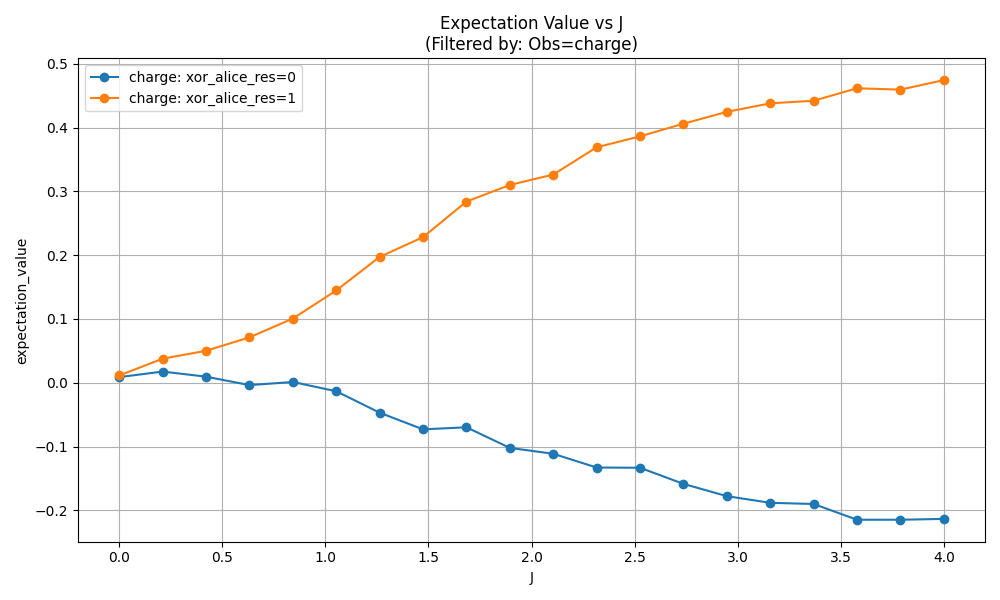
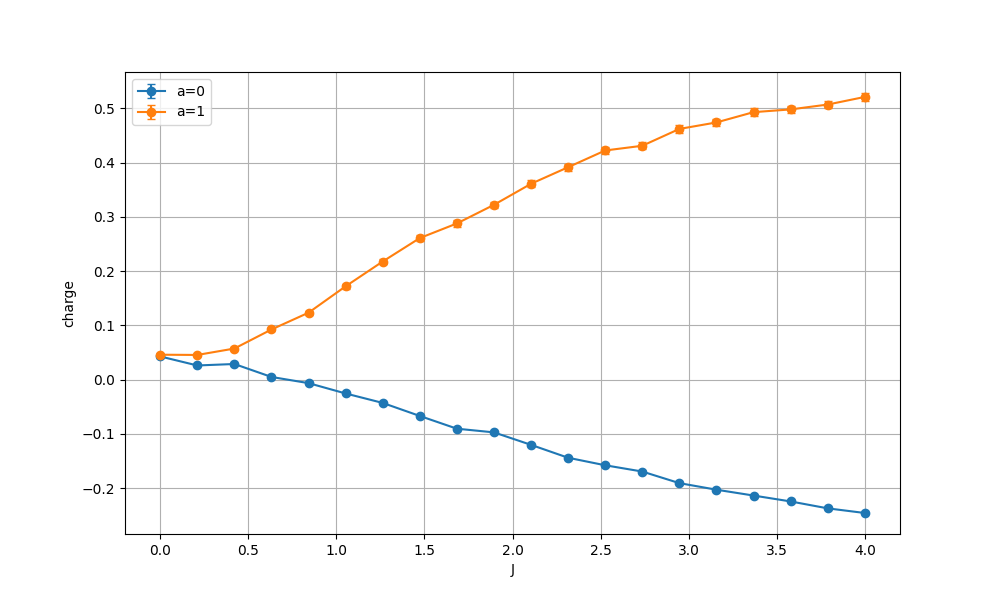
Update paper from yaron (#59)
* Update real quantum HW results after re-running the protocol and update discussion accordingly

* Re-arrangement and updates of errors section after real HW results update

* Update changes from yaron - introduction still needs to be verified

diff --git a/latex/6 - noise and errors.tex b/latex/6 - noise and errors.tex
@@ -8,10 +8,6 @@ A primary metric for protocol failure is the sign reversal of the teleported exp
 \subsection{Classical Communication Error}
 \label{subsec:classical-comm}
 
-An error in the classical channel, where the bit Alice sends is flipped with probability $p$, causes Bob to apply the incorrect unitary operation. This effectively creates a statistical mixture of the intended ($a=0$) and flipped ($a=1$) outcomes. As analyzed in \cite{QKDbyQET}, this leads to a linear degradation of the expected signal: $\langle\Delta O_B\rangle_p = (1-p)\langle\Delta O_B\rangle_{a=0} + p\langle\Delta O_B\rangle_{a=1}$. Since $\langle\Delta O_B\rangle_{a=0}$ is negative and $\langle\Delta O_B\rangle_{a=1}$ is positive, the signal is attenuated and moves towards zero.
-
-The numerical results in Figure~\ref{fig:cls-Ns-main} show this linear decay for all simulated configurations. For the star-interaction model $H^{(1)}$, a clear sign-flip threshold appears around $p \approx 0.25$, consistent with the findings in \cite{QKDbyQET}. While the absolute magnitude of the energy signal is larger than that of the charge signal in this model, both are similarly vulnerable to this error (see Appendix Fig.~\ref{fig:classical_err_alice_ham} and Fig.~\ref{fig:classical_err_nn_ham_x} for a direct comparison). However, for the more realistic nearest-neighbor model ($H^{(2)}$), the energy signal diminishes rapidly with system size $N$, whereas the charge signal remains more stable (a trend clearly visible in the energy data in Appendix Fig.~\ref{fig:energy_vs_classical_err_for_n}). This highlights that for larger distances, the charge protocol's signal is more resilient, even though the fundamental error threshold remains similar.
-
 \begin{figure}[ht]
   \centering
   \subfloat[\(H^{(1)}\) (Star-Coupling interaction)]{
@@ -29,6 +25,10 @@ The numerical results in Figure~\ref{fig:cls-Ns-main} show this linear decay for
   \label{fig:cls-Ns-main}
 \end{figure}
 
+An error in the classical channel, where the bit Alice sends is flipped with probability $p$, causes Bob to apply the incorrect unitary operation. This effectively creates a statistical mixture of the intended ($a=0$) and flipped ($a=1$) outcomes. As analyzed in \cite{QKDbyQET}, this leads to a linear degradation of the expected signal: $\langle\Delta O_B\rangle_p = (1-p)\langle\Delta O_B\rangle_{a=0} + p\langle\Delta O_B\rangle_{a=1}$. Since $\langle\Delta O_B\rangle_{a=0}$ is negative and $\langle\Delta O_B\rangle_{a=1}$ is positive, the signal is attenuated and moves towards zero.
+
+The numerical results in Figure~\ref{fig:cls-Ns-main} show this linear decay for all simulated configurations. For the star-interaction model $H^{(1)}$, a clear sign-flip threshold appears around $p \approx 0.25$, consistent with the findings in \cite{QKDbyQET}. While the absolute magnitude of the energy signal is larger than that of the charge signal in this model, both are similarly vulnerable to this error (see Appendix Fig.~\ref{fig:classical_err_alice_ham} and Fig.~\ref{fig:classical_err_nn_ham_x} for a direct comparison). However, for the more realistic nearest-neighbor model ($H^{(2)}$), the energy signal diminishes rapidly with system size $N$, whereas the charge signal remains more stable (a trend clearly visible in the energy data in Appendix Fig.~\ref{fig:energy_vs_classical_err_for_n}). This highlights that for larger distances, the charge protocol's signal is more resilient, even though the fundamental error threshold remains similar.
+
 From Figure~\ref{fig:classical-main} one can see that error flipping the classical bit communicated from Alice to Bob changes the extracted value sign at Bob's site at high probabilities. This is the expected result since by the protocol's design and from simulations of the protocol in previous sections we showed that flipping this bit inverts the sign measured by Bob. Comparing to energy from the equivalence simulation in~\cite{QKDbyQET} (see also Figures~\ref{fig:classical_err_alice_ham},~\ref{fig:classical_err_nn_ham_x} and~\ref{fig:classical_err_nn_ham_y} in Appendix), the charge is somewhat more robust to such error where the sign flips around \(p_{err} \approx  0.32\) instead of \(p_{err} \approx  0.25\) for energy, a threshold introduce in~\cite{QKDbyQET} and is confirmed in our own energy teleportation simulations (Appendix Fig.~\ref{fig:classical_err_alice_ham}, Fig.~\ref{fig:classical_err_nn_ham_x} and Fig.~\ref{fig:classical_err_nn_ham_y}).
 
 \begin{figure}[ht]
@@ -41,11 +41,6 @@ not prominent at low error probabilities.}
 
 \subsection{Mixture with an Excited State}
 \label{subsec:mixture}
-
-Perfect ground state preparation is experimentally challenging; a common imperfection is a residual population of excited states, modeled as a classical mixture $\rho = (1-p)\rho_{gs} + p\rho_{excited}$. The teleported signal becomes a weighted average of the contributions from each state.
-
-Figure~\ref{fig:mixture-main} reveals a critical performance difference between energy and charge teleportation.
-This difference in robustness stems from the nature of the observables themselves. The energy teleportation signal is highly sensitive to the local energy expectation value $\langle H_B\rangle$. Low-lying excitations contribute a large positive energy offset, which can easily overwhelm the negative teleported signal originating from the ground state component, causing a premature sign-flip fatal to the QKD protocol.
 
 \begin{figure}[ht!]
     \centering
@@ -61,6 +56,26 @@ This difference in robustness stems from the nature of the observables themselve
   \label{fig:mixture-main}
 \end{figure}
 
+Perfect ground state preparation is experimentally challenging; a common imperfection is a residual population of excited states, modeled as a classical mixture $\rho = (1-p)\rho_{gs} + p\rho_{excited}$. The teleported signal becomes a weighted average of the contributions from each state.
+
+Figure~\ref{fig:mixture-main} reveals a critical performance difference between energy and charge teleportation.
+This difference in robustness stems from the nature of the observables themselves. The energy teleportation signal is highly sensitive to the local energy expectation value $\langle H_B\rangle$. Low-lying excitations contribute a large positive energy offset, which can easily overwhelm the negative teleported signal originating from the ground state component, causing a premature sign-flip fatal to the QKD protocol.
+
+% This is part of the next subsection of superposition with excited state error, it is here for formatting resons
+\begin{figure*}[htbp]
+    \centering
+    \subfloat[Numerical, \(H^{(2)}\), \(N{=}2\), \(\sigma_A=X_0\)]{
+        \includegraphics[width=0.8\columnwidth]{plots/errors/numerical/N2_charge_vs_p_excited_superposition_error.png}
+    }
+    \hfill
+    \subfloat[Qiskit, \(H^{(2)}\), \(N{=}2\), \(\sigma_A=X_0\)]{
+        \includegraphics[width=0.9\columnwidth]{plots/errors/qiskit/N2_charge_vs_p_excited_superposition_error.png}
+    }
+  
+  \caption{Coherent superposition with an excited state for the $H^{(2)}$ model ($N=2, \sigma_A=X_0$). Similar to the classical mixture, the charge protocol proves its resilient.}
+  \label{fig:superposition-main}
+\end{figure*}
+
 In contrast, the charge observable $Q_B$, which is related to local spin parity, is less sensitive to these absolute energy shifts. The quantum correlations responsible for generating the signal's sign (the $\eta_Q$ term) often retain their structure across different low-energy states. As a result, the contribution from the excited state does not introduce a large positive offset, and the teleported charge signal remains negative over a much wider range of error probabilities, merely decreasing in magnitude.
 While both signals degrade as the mixture probability $p$ increases, the energy signal frequently crosses zero and becomes positive at moderate error levels ($p \approx 0.15-0.25$) \cite{QKDbyQET}, a critical vulnerability that is evident in our energy simulations shown in Appendix Fig.~\ref{fig:nn_X_num_mixture_error_appendix} and Fig.~\ref{fig:nn_Y_num_mixture_error_appendix}. In contrast, the charge signal often remains negative even at high error probabilities, merely decreasing in magnitude. This superior robustness of charge stems from the nature of the observables. Low-lying excitations can significantly alter the local energy expectation value $\langle H_B \rangle$, contributing a large positive offset term ($\xi_H$) that overwhelms the negative teleported signal from the ground state. The charge observable $Q_B$, which is tied to local spin parity, is less sensitive to such energy shifts. The correlations responsible for charge teleportation ($\eta_Q$) often retain their sign across different low-energy manifolds, preserving the integrity of the key bit.
 
@@ -71,26 +86,8 @@ The Qiskit simulations (top panels of Fig.~\ref{fig:mixture-main}) corroborate t
 
 A coherent error creating a superposition $|\psi\rangle = \sqrt{1-p}|\psi_{gs}\rangle + e^{i\alpha}\sqrt{p}|\psi_{excited}\rangle$ introduces interference terms into the expectation values of $\xi$ and $\eta$. This leads to a non-linear dependence on the error probability $p$, as shown in Figure~\ref{fig:superposition-main}. Similar to the classical mixture, the energy protocol is more susceptible to sign-flips than the charge protocol, as shown in the energy data in Appendix Fig.~\ref{fig:nn_X_num_superposition_error_appendix} and Fig.~\ref{fig:nn_Y_num_superposition_error_appendix}. The phase sensitivity inherent in the superposition can destructively interfere with the commutator term $\eta$, which is the engine of teleportation, and this effect appears more pronounced for the energy observable. The Qiskit simulations again highlight the increased statistical variance, making it difficult to distinguish the true non-linear signal from finite-shot noise.
 
-\begin{figure}[htbp]
-    \centering
-    \subfloat[Numerical, \(H^{(2)}\), \(N{=}2\), \(\sigma_A=X_0\)]{
-        \includegraphics[width=0.8\columnwidth]{plots/errors/numerical/N2_charge_vs_p_excited_superposition_error.png}
-    }
-    \vspace{0.5em}
-    \subfloat[Qiskit, \(H^{(2)}\), \(N{=}2\), \(\sigma_A=X_0\)]{
-        \includegraphics[width=0.9\columnwidth]{plots/errors/qiskit/N2_charge_vs_p_excited_superposition_error.png}
-    }
-  
-  \caption{Coherent superposition with an excited state for the $H^{(2)}$ model ($N=2, \sigma_A=X_0$). Similar to the classical mixture, the charge protocol proves its resilient.}
-  \label{fig:superposition-main}
-\end{figure}
-
 \subsection{Bit-Flip and Phase-Flip Errors}
 \label{subsec:quantum-channel-errors}
-
-We now consider local quantum channel noise acting on individual qubits.
-
-\paragraph{Bit-Flip Error ($X_n$).} This error, modeled by $\rho \rightarrow (1-p)\rho + pX_n\rho X_n$, degrades the specific quantum correlations leveraged by the protocol. As shown in Figure~\ref{fig:bitflip-main}, both energy and charge signals decay smoothly with the error probability $p$. Sign-crossings are rare, indicating that the protocol is relatively robust against this error type. Energy generally maintains a larger absolute signal, which in principle makes it easier to measure, provided the noise level is low enough to prevent ambiguity (cf. the energy data in Appendix Figs.~\ref{fig:alice_num_bitflip_error_appendix},~\ref{fig:nn_X_num_bitflip_error_appendix}, and~\ref{fig:nn_Y_num_bitflip_error_appendix}).
 
 \begin{figure}[ht!]
     \centering
@@ -131,6 +128,10 @@ We now consider local quantum channel noise acting on individual qubits.
   \label{fig:phaseflip-main}
 \end{figure*}
 
+We now consider local quantum channel noise acting on individual qubits.
+
+\paragraph{Bit-Flip Error ($X_n$).} This error, modeled by $\rho \rightarrow (1-p)\rho + pX_n\rho X_n$, degrades the specific quantum correlations leveraged by the protocol. As shown in Figure~\ref{fig:bitflip-main}, both energy and charge signals decay smoothly with the error probability $p$. Sign-crossings are rare, indicating that the protocol is relatively robust against this error type. Energy generally maintains a larger absolute signal, which in principle makes it easier to measure, provided the noise level is low enough to prevent ambiguity (cf. the energy data in Appendix Figs.~\ref{fig:alice_num_bitflip_error_appendix},~\ref{fig:nn_X_num_bitflip_error_appendix}, and~\ref{fig:nn_Y_num_bitflip_error_appendix}).
+
 \paragraph{Phase-Flip Error ($Z_n$).} The impact of a phase-flip error depends critically on its location.
 
 \begin{itemize}
@@ -140,9 +141,7 @@ We now consider local quantum channel noise acting on individual qubits.
 
 In both cases, energy and charge show similar qualitative degradation, although the protocol is clearly more sensitive to noise on Bob's side.
 
-\subsection{Energy vs. Charge: A Consolidated View}
-\label{subsec:consolidated}
-
+% This belongs to the next subsection, it is here for formatting reasons
 \begin{table*}[t]
 \small
 \centering
@@ -166,6 +165,9 @@ Phase-Flip on Bob (Z) & Both decay rapidly & Moderate for E; Low for Q & Inverts
 \bottomrule
 \end{tabularx}
 \end{table*}
+
+\subsection{Energy vs. Charge: A Consolidated View}
+\label{subsec:consolidated}
 
 Our analysis reveals a consistent trade-off between energy and charge teleportation. \textbf{Energy teleportation} can yield a stronger absolute signal, especially for the directly-coupled star Hamiltonian ($H^{(1)}$). However, this larger signal comes at the cost of fragility. Energy is fundamentally sensitive to errors that shift local energy offsets, such as contamination from excited states, which can induce premature sign-flips that are fatal to a QKD protocol. Moreover, its practical implementation is hampered by higher statistical noise arising from the need to measure non-commuting observables separately (Appendix~\ref{appendix:stats-analysis}).
 

diff --git a/latex/1 - introduction.tex b/latex/1 - introduction.tex
@@ -1,6 +1,18 @@
 \section{Introduction}
 \label{sec:introduction}
 
+\if{
+Quantum key distribution (QKD) promises information-theoretic security grounded in the laws of quantum mechanics \cite{Bennett1984, Ekert1991}. While canonical protocols such as BB84 \cite{Bennett1984, Bennett1992, Shor2000, Mayers2001, Scarani2009, Bennett1992_exp} rely on transmitting and measuring single-qubit states, recent theory and experiments have opened alternative cryptographic primitives. Among these is quantum energy teleportation (QET)—the remote extraction of energy using only local operations and classical communication (LOCC) on a shared entangled ground state \cite{Hotta2011}. QET does not teleport a quantum state but rather the expectation value of a local observable. Demonstrations on superconducting hardware \cite{Ikeda2023} have established feasibility and, more broadly, motivated extensions from energy to other globally conserved quantities such as charge and current \cite{IkedaTeleportingCharge}—an approach we refer to as quantum observable teleportation.
+
+Building on this idea, it was proposed to encode key bits in the sign of a teleported observable’s expectation value, controlled by a single classical bit chosen by Alice
+\cite{QKDbyQET}. Such a mechanism offers a general framework for secure signaling: Alice deterministically controls a binary outcome at Bob’s location while using only LOCC. Because the required resource is a carefully prepared many-body ground state, the approach is naturally suited to applications where unconditional security is prioritized over throughput—precisely the trade-off emphasized in QKD. 
+
+In this work we develop and analyze a QKD protocol based on charge teleportation. We study two implementations using transverse-field Ising models (TFIM): a star-coupled architecture in which Alice interacts with all other spins, and a nearest-neighbor one-dimensional chain with finite separation between Alice and Bob. Using numerical simulations and Qiskit-level circuit models, we compare charge vs energy teleportation and find that charge provides superior bit-symmetry, statistical stability, and scalability with system size, making it a strong candidate for practical QKD. We also quantify robustness to classical and quantum noise channels, identifying operating regimes in which secure key distribution remains viable.
+
+\paragraph{Organization:} Section~\ref{sec:protocol} reviews the minimal observable-teleportation for a generic system and reintroduces the protocol designed in QKD by QET~\cite{QKDbyQET}. Section~\ref{sec:hamiltonians} presents the analysis for the two Hamiltonians we use for our model and the optimal control angles. Section~\ref{sec:numerical_sim} discusses numerical simulations of the protocol for both models, while Section~\ref{sec:qiskit_sim} provides validation of the numerical simulations using quantum circuits and presents results from execution on real quantum hardware. Section~\ref{sec:noise-errors} analyzes the protocol's resilience to different noise and error models, followed by a discussion and outlook in Section~\ref{sec:summary}.
+
+}\fi
+
 Quantum Key Distribution (QKD) promises unconditionally secure communication by leveraging the fundamental principles of quantum mechanics \cite{Bennett1984, Ekert1991}. While traditional protocols like the BB84 protocol~\cite{Bennett1984, Bennett1992, Shor2000, Mayers2001, Scarani2009, Bennett1992_exp} rely on the transmission and measurement of single-qubit states, recent theoretical and experimental advances have opened new avenues for cryptographic tasks. Among these is Quantum Energy Teleportation (QET), a protocol that enables the extraction of energy from a distant location by performing only local operations and classical communication (LOCC) on a shared entangled ground state, without violating local energy conservation \cite{Hotta2011}. This process does not teleport a quantum state, but rather the expectation value of a local observable.
 
 Recent work has demonstrated the experimental feasibility of QET on superconducting quantum hardware \cite{Ikeda2023} and generalized the protocol beyond energy to other globally conserved quantities, such as charge and current \cite{IkedaTeleportingCharge}. This generalization, termed Quantum Observable Teleportation, provides a versatile toolkit for manipulating local properties of many-body systems. Building on this, it was recently proposed that such a mechanism could form the basis of a novel QKD protocol, where information is encoded in the sign of the teleported observable's expectation value, controlled by a classical bit choice made by the sender (Alice) \cite{QKDbyQET}. More broadly, this mechanism establishes a general framework for secure quantum signaling, where Alice can deterministically control a binary outcome at Bob's location. However, given that the protocol's resource is a meticulously prepared many-body ground state, its practical application is best suited for tasks where unconditional security is prioritized over high data rates. QKD is the canonical example of such a task and thus forms the central focus of our investigation.

diff --git a/latex/5 - qiskit simulation.tex b/latex/5 - qiskit simulation.tex
@@ -151,20 +151,26 @@ These results underscore the relative robustness of charge-based teleportation i
     \centering
     \subfloat[Charge teleportation]{
         \includegraphics[width=0.45\textwidth]{plots/qiskit/real hw/real_hw_charge_vs_J.png}
+        \label{subfloat:real_hw_charge_results}
     }
     \hfill
     \subfloat[Energy teleportation]{
         \includegraphics[width=0.45\textwidth]{plots/qiskit/real hw/real_hw_energy_vs_J.png}
+        \label{subfloat:real_hw_energy_results}
     }
-    \caption{Experimental protocol results obtained from real quantum hardware for \( N = 1 \), using Alice’s \( \sigma_A = X_0 \) basis. Each point represents an independent execution for a fixed value of coupling \( J \).\newline\textbf{\textcolor{BrickRed}{TODO: Update to new results with error bars after running the protocol}}}
+    \caption{Experimental protocol results obtained from real quantum hardware for \( N = 1 \), using Alice’s \( \sigma_A = X_0 \) basis. Each point represents an independent execution for a fixed value of coupling \( J \).}
     \label{fig:real_hw_results}
 \end{figure*}
 
-To complete the analysis, we also implement the teleportation protocol on an actual quantum processor via the IBM Q backend. The experiment was conducted for the minimal configuration with \( N = 1 \) using Alice's basis \( \sigma_A = X_0 \), which corresponds to both the \( H^{(1)} \) and \( H^{(2)} \) models in this simple setting. The charge and energy observables were measured separately using the circuits introduced earlier.
+To complete the analysis, we implement the teleportation protocol on an actual quantum processor, the \texttt{ibm\_torino} QPU, via the \texttt{IBM Quantum Platform}. The experiment was conducted for the minimal configuration with \( N = 1 \) using Alice's basis \( \sigma_A = X_0 \), which corresponds to both the \( H^{(1)} \) and \( H^{(2)} \) models in this simple setting. The charge and energy observables were measured separately using the circuits introduced earlier.
 
-Although the data points are fewer than in the simulated case—due to the significant overhead and resource demand of real hardware runs—the results clearly indicate that the protocol operates as expected even in the presence of device noise. For both energy and charge, the results exhibit the characteristic split between the two classical outcomes (\( c \) or \( c \oplus 1 \)), affirming the correctness of the teleportation mechanism.
+The results, shown in Figure~\ref{fig:real_hw_results}, provide crucial insight into the protocol's performance in the presence of realistic device noise. A key observation is a significant positive offset in the measured expectation values compared to the ideal simulations. This is particularly evident at \( J=0 \), where both the charge and energy signals are positive, regardless of Alice's classical bit choice (\( a=0 \) or \( a=1 \)). Such a systematic shift could be caused by various factors, including an imperfectly prepared ground state, decoherence, or measurement readout errors.
 
-The robustness of charge teleportation is particularly evident here, aligning with our earlier observations from simulations. This experiment provides practical validation that observable teleportation is feasible on real quantum hardware using only local operations and classical communication, without requiring full quantum state teleportation or entanglement swapping.
+For the energy teleportation protocol, this offset proves to be critical. As seen in Figure~\ref{subfloat:real_hw_energy_results}, the expectation values for the \( a=0 \) branch remain positive across the entire range of \( J \). Since the protocol's security relies on encoding key bits in the sign of the measured observable, the persistent positive sign means the protocol fails to produce a distinguishable key. Without sophisticated error correction to compensate for this offset, energy teleportation is not viable in this noisy environment.
+
+In stark contrast, the charge teleportation protocol demonstrates its superior robustness. While it is also affected by the initial offset at \( J=0 \), the signal strength for the \( a=0 \) branch grows sufficiently negative as \( J \) increases. As shown in Figure~\ref{subfloat:real_hw_charge_results}, the signal overcomes the systematic positive bias, re-establishing the clear sign separation between the \( a=0 \) and \( a=1 \) branches. This confirms that for a large enough coupling \( J \), the charge protocol remains functional and can reliably encode key bits.
+
+This experiment provides practical validation that observable teleportation is feasible on near-term quantum hardware using only LOCC. More importantly, it highlights that while the underlying mechanism works, the choice of observable is paramount. The pronounced resilience of charge teleportation against systematic hardware noise reinforces our central claim that it is a more practical and robust candidate for QKD applications.
 
 \subsection{Summary: Insights from Qiskit Simulations}
 

diff --git a/latex/main.tex b/latex/main.tex
@@ -28,22 +28,16 @@
 \title{Quantum Key Distribution via Charge Teleportation}
 \author{Amir Yona}
 \email[]{yonaamir@gmail.com}
-%\homepage[]{Your web page}
-%\thanks{}
-%\altaffiliation{}
-\affiliation{Tel Aviv University, Tel Aviv, Israel}
-
-%Collaboration name if desired (requires use of superscriptaddress
-%option in \documentclass). \noaffiliation is required (may also be
-%used with the \author command).
-%\collaboration can be followed by \email, \homepage, \thanks as well.
-%\collaboration{}
-%\noaffiliation
+\author{Yaron Oz}
+\email[]{yaronoz@tauex.tau.ac.il}
+\affiliation{School of Physics and Astronomy, Tel Aviv University, Ramat Aviv 69978, Israel}
 
 \date{\today}
 
 \begin{abstract}
-In this work, we have proposed, simulated, and analyzed a Quantum Key Distribution (QKD) protocol based on the teleportation of a local charge observable. By studying two distinct Transverse Field Ising Models—one with a central star-coupling interaction ($H^{(1)}$) and another with nearest-neighbor interactions ($H^{(2)}$)—we have systematically compared the performance of charge teleportation against energy teleportation. Our investigation, conducted through both numerical simulations and Qiskit-based quantum circuit implementations, confirms that charge teleportation offers significant advantages for cryptographic applications. Our primary finding is the superior stability and robustness of the charge-based protocol. While energy teleportation can, in certain regimes, yield a larger absolute signal ($\langle \Delta H_B \rangle$), it is highly sensitive to statistical noise and exhibits an asymmetric response to Alice's classical bit choice. In contrast, the teleported charge expectation value ($\langle \Delta Q_B \rangle$) shows a perfect mirror symmetry, which is crucial for a reliable bit-to-key mapping. This symmetry, combined with a signal that remains stable and scalable as the system size $N$ increases, makes the charge protocol inherently more resilient to the finite-shot noise that characterizes near-term quantum hardware. Critically, our protocol was validated on real quantum hardware for a minimal two-qubit system ($N=1$). Despite the presence of device noise, the experimental results successfully reproduced the characteristic separation of Bob's observable expectation values, confirming the fundamental viability of the QKD mechanism.
+
+We introduce a quantum key distribution (QKD) primitive based on charge teleportation: by  Local Operations and Classical Communication (LOCC) on an entangled many-body ground state, Alice’s one-bit choice steers the sign of a local charge shift at Bob, which directly encodes the key bit. Relative to energy teleportation schemes, the charge signal is bit-symmetric, measured in a single basis, and markedly more robust to realistic noise and model imperfections. We instantiate the protocol on transverse-field Ising models, star-coupled and one-dimensional chain,  obtain closed-form results for two qubits, and for larger systems confirm performance via exact diagonalization, circuit-level simulations, and a proof-of-principle hardware run. We quantify resilience to classical bit flips and local quantum noise, identifying regimes where sign integrity, and hence key correctness, is preserved. These results position charge teleportation as a practical, low-rate QKD primitive compatible with near-term platforms.
+
 \end{abstract}
 
 \maketitle
@@ -56,11 +50,11 @@ In this work, we have proposed, simulated, and analyzed a Quantum Key Distributi
 \input{6 - noise and errors}
 \input{7 - summary}
 
-% If you have acknowledgments, this puts in the proper section head.
 \begin{acknowledgments}
-% put your acknowledgments here.
+We would like to thank Kazuki Ikeda for valuable discussions. This work is supported in part by the Israeli Science Foundation Excellence Center, the US-Israel Binational Science Foundation, and the Israel Ministry of Science.
 \end{acknowledgments}
 
+\newpage
 \appendix
 \section*{Appendix}
 \addcontentsline{toc}{section}{Appendix}

diff --git a/latex/2 - protocol.tex b/latex/2 - protocol.tex
@@ -4,7 +4,7 @@
 \subsection{Observables Teleportation:\texorpdfstring{\\}{line}General Framework}
 \label{sec:generic_teleportation}
 
-Quantum charge teleportation (QCT) extends Quantum Energy Teleportation (QET)~\cite{Hotta2011,Ikeda2023} from energy to symmetry charges. We consider two closely related $(N\!+\!1)$-site quantum systems prepared in a non-degenerate ground state $\ket{gs}$ of a Hamiltonian $H$, with Alice at site $0$ and Bob at site $N$~\cite{QKDbyQET,IkedaTeleportingCharge}. In QCT, the teleported quantity is a global conserved charge—i.e., the generator of an exact symmetry with an associated continuity equation—so that Alice’s local measurement followed by classical communication (LOCC) enables Bob to apply a conditional local unitary that deterministically activates a charge signal at his site while the total charge remains conserved. This symmetry structure is essential: unlike arbitrary local observables, only globally conserved charges admit nonlocal redistribution via QET-style feedback without intermediate transport. Building on this principle, we analyze how Alice’s measurement basis and Bob’s conditional operation steer the sign and magnitude of Bob’s local charge, thereby realizing charge teleportation suitable for cryptographic primitives based on QET.
+Quantum charge teleportation (QCT) extends Quantum Energy Teleportation (QET)~\cite{Hotta2011,Ikeda2023} from energy to symmetry charges. We consider two closely related $(N\!+\!1)$-site quantum systems prepared in a non-degenerate ground state $\ket{gs}$ of a Hamiltonian $H$, with Alice at site $0$ and Bob at site $N$~\cite{QKDbyQET,IkedaTeleportingCharge}. In QCT, the teleported quantity is a global conserved charge \footnote{The conserved charge can also be discrete, for which there is no continuity equation in the usual Noether sense.}—i.e., the generator of an exact symmetry with an associated continuity equation—so that Alice’s local measurement followed by classical communication (LOCC) enables Bob to apply a conditional local unitary that deterministically activates a charge signal at his site while the total charge remains conserved. This symmetry structure is essential: unlike arbitrary local observables, only globally conserved charges admit nonlocal redistribution via QET-style feedback without intermediate transport. Building on this principle, we analyze how Alice’s measurement basis and Bob’s conditional operation steer the sign and magnitude of Bob’s local charge, thereby realizing charge teleportation suitable for cryptographic primitives based on QET.
 
 \subsubsection{Protocol Steps}
 We explicitly define the protocol steps as follows~\cite{QKDbyQET}:

diff --git a/latex/Backlog.tex b/latex/Backlog.tex
@@ -10,11 +10,6 @@
     \item \textcolor{BrickRed}{Go over the entire paper, reread, fix TODOs and write notes.}
 \end{enumerate}
 
-\subsubsection{Specific Topics}
-\begin{enumerate}
-    \item \textcolor{BrickRed}{Real quantum HW results - the charge in the last experiment looks good, but the energy doesn't. Why? \textbf{FIX}}
-\end{enumerate}
-
 \subsection{Questions}
 \begin{enumerate}
     \item What should be part of the paper's appendix?
